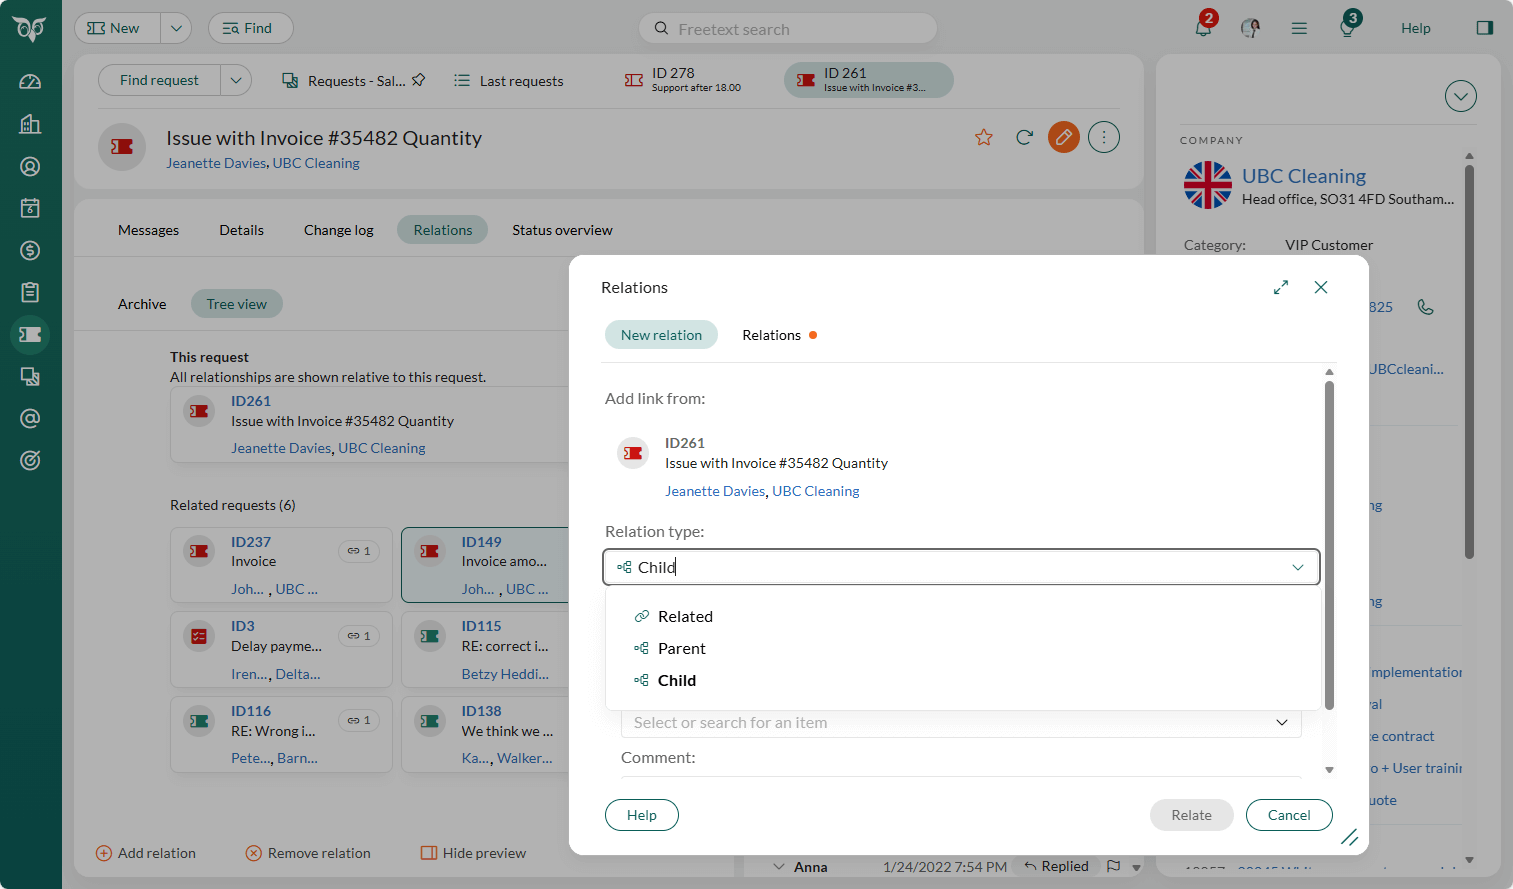
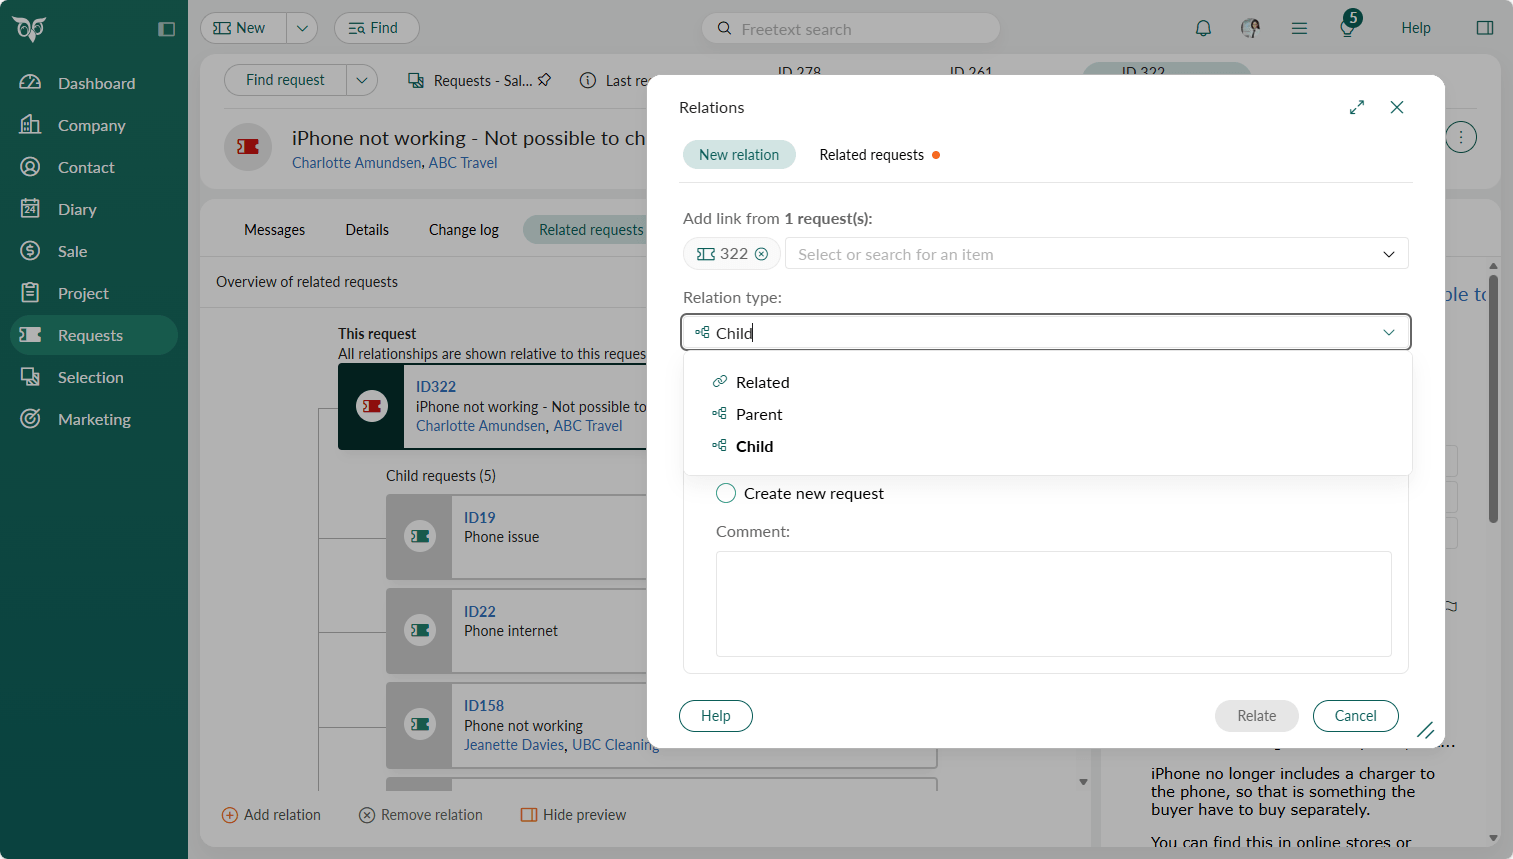
#2769 Removed Marketing content - updated Request content

diff --git a/release-notes/11/admin/11.12-update.md b/release-notes/11/admin/11.12-update.md
@@ -22,51 +22,19 @@ You can create hierarchical and side‑by‑side relationships (Related, Parent 
 
 Read more about [how to use Related requests][2] in SuperOffice Service.
 
-There are three default relations that cannot be edited or deleted, but you can add additional request relations to support your workflow in SuperOffice Service.
+There are three default relations types that cannot be edited or deleted, but you can add additional request rules to support your workflow in SuperOffice Service.
 
-![Admin Requests - Add a new request relation and add the correct settings  -screenshot][img1]
+![Admin Requests - Add a new request rule and add the correct condition and behavior  -screenshot][img1]
 
-When creating a new relation, you can assign it to a specific request type and define what type of relation it is. You also need to select the related request types it applies to. In addition, you can configure several on/off options on what should happen on closing related request. Add a clear description so your users easily understand how and when to use this relation.
+When creating a new relation rule, you can add conditions From (source) and To (target) of Request types with a specific Relation type. You also add different behavior of the rule like "require parent to be set" and "Prevent parent closure". The rule triggers automatic actions in the request user interface only.
+
+--- assign it to a specific request type and define what type of relation it is. You also need to select the related request types it applies to. In addition, you can configure several on/off options on what should happen on closing related request. Add a clear description so your users easily understand how and when to use this relation.
 
 Learn more about [how to set up your SuperOffice Service][1].
 
-## Marketing - Form field restrictions
-
-Our customers tend to use SuperOffice Forms to register newsletter recipients, and/or sign up/reach out to be contacted. Standard fields like company "Business" and person "Interest" fields are important part of their segmentation work and reaching out to these contacts afterwards.
-
-Possibility for extra tables and UDEF support in Forms: The possibility of using lists defined in admin within a form element dropdown is fine, however the real use case from customers is to be able to update UDEF on persons from the form submission itself.
-
-Additional standard fields requested for Person card:
-
-* private number
-* preferred language
-
-* birthdate
-* address
-* city
-* post code
-* language
-
-Additional standard fields requested for Company:
-
-* department
-* business
-* number
-* main contact
-
-Background: As we do not know what kind of data our customers are keeping in their custom fields, we need to make sure their data quality and integrity is kept. Today it is up to every form user to consider if a field should only be updated when empty, or if overwriting existing information should be possible. When offering more fields, and potentially more essential fields keeping important information, the risk of leaving this to the form designer will increase. We need to include a way of mitigating this risk, for example making a crm administrator consider the risks involved in allowing access and overwriting possibilities to unauthorized contacts through a form.
-
-The sketch below is communicating the risks to the crm administrator, and gives the administrator a control panel for removing field access.
-
-All fields made available within the Form builder have by default an update policy where only empty fields are updated.  Users building the form have the possibility to allow overwrite. This is as today. Users might for instance select to allow overwrite on contact title to keep the field updated. They do this by checking the checkbox “replace” on the field configuration within the form.
-
-When custom fields are available in the form builder, administrators should be able to add restrictions for fields where overwrite should never be possible. The user building the form will then not be able to allow overwrite for such a field (Checkbox “replace” not available).
-
-Administrator should also be able to remove fields from the form builder when they should not be included in any form at all.
-
 <!-- Referenced links-->
 [1]: ../../../docs/en/request/admin/index.md
-[2]: ../service/11.10-update.md
+[2]: ../service/11.12-update.md
 
 <!-- Referenced images -->
-[img1]: ../../../docs/media/loc/en/admin/admin-requests-request-relations-new.png
+[img1]: ../../../docs/media/loc/en/admin/admin-requests-relation-rules.png

diff --git a/release-notes/11/service/11.12-update.md b/release-notes/11/service/11.12-update.md
@@ -20,7 +20,7 @@ audience_tooltip: SuperOffice CRM
 
 **Related requests** makes it easy to link, organise and manage related requests in one place. With both visual and list-based views, you get a clear and structured overview of how requests are connected.
 
-You can create hierarchical and side‑by‑side **relationships** (Related, Parent, or Child), helping you understand dependencies, track progress and manage complex service scenarios with confidence. This provides greater control, improved visibility and a smoother way to work with interconnected requests.
+You can add hierarchical and side‑by‑side **relationships** (Related, Parent, or Child), helping you understand dependencies, track progress and manage complex service scenarios with confidence. This provides greater control, improved visibility and a smoother way to work with interconnected requests.
 
 ![Request - Add relations between multiple requests –screenshot][img1]
 

diff --git a/release-notes/11/index.md b/release-notes/11/index.md
@@ -29,7 +29,6 @@ See our [Product Roundup 2025][31]: Highlights across Marketing, Sales, Service,
 
 * [Request relations - better control and overview][41] in Service
 * [Requests - Add Relation rules][40] in Settings and maintenance
-* [Marketing - Form field restrictions][40] in Settings and maintenance
 
 ### 11.11 (17.03.2026)
 
@@ -173,6 +172,5 @@ Some features are available to selected customers as part of ongoing pilots. See
 [39]: admin/11.11-update.md
 [40]: admin/11.12-update.md
 [41]: service/11.12-update.md
-[42]: marketing/11.12-update.md
 
 <!-- Referenced images -->

diff --git a/release-notes/11/admin/index.md b/release-notes/11/admin/index.md
@@ -15,7 +15,6 @@ language: en
 # New and improved Settings and maintenance
 
 * [Requests - Add Relation rules (11.12)][12]
-* [Marketing - Form field restrictions (11.12)][12]
 * [Subscription page styling - Change text Unsubscribe and Confirmations pages (11.11)][11]
 * [Marketing - Subscription page styling (11.10)][10]
 * [Marketing - Add new Google fonts to form fonts (11.9)][9]
